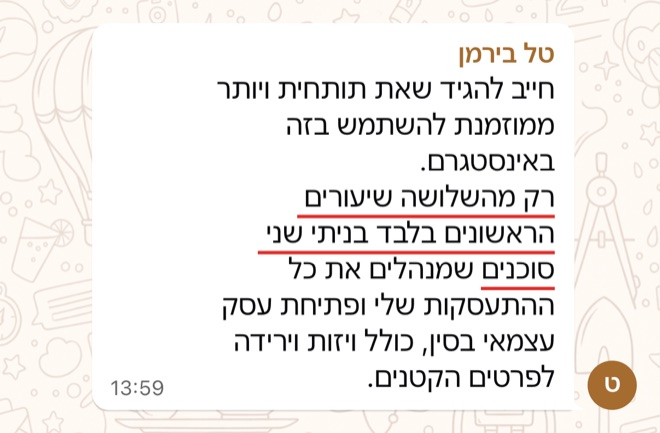
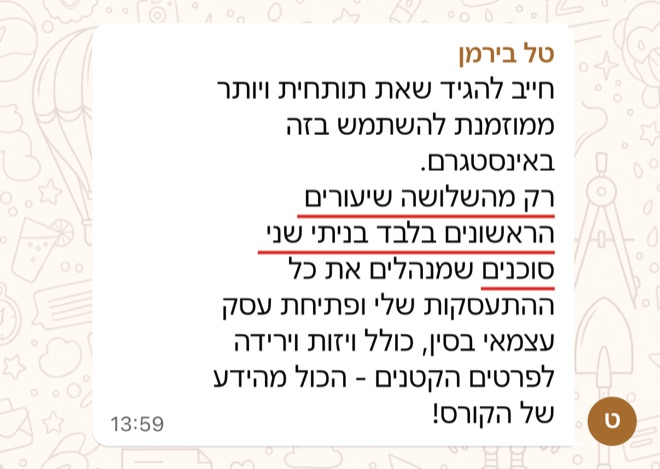
דף המפתח: בלי הכפתור הצף של הפרטיות (קישור הגדרות עוגיות בתחתית), מרווח לוואטסאפ, ושתי הודעות בנוסח המלא

diff --git a/index.html b/index.html
@@ -2064,6 +2064,8 @@ html:not(.obj-tabs-on) .obj-lead{display:none}
 .key-footer__links{display:flex;flex-wrap:wrap;justify-content:center;gap:8px 20px}
 .key-footer__links a{color:rgba(255,255,255,.85);text-decoration:underline;text-underline-offset:3px}
 .key-footer__links a:hover{color:#fff}
+/* 17-10-2026: בטלפון כפתור הוואטסאפ הצף (.wa-float, משמאל למטה) כיסה את הקישורים האחרונים בתחתית. מרווח בתחתית מפנה להם מקום. */
+@media (max-width:819px){.key-footer{padding-bottom:150px}}
 /* הערה 66: בטלפון ובטאבלט המשפט "זה משרד ה-AI שמריץ את אימפרוב..." יושב מתחת לתמונת המשרד ולא מתחת לכפתור.
    רק סדר תצוגה - המשפט נשאר ילד של .art, ולכן קופסת .office והתוויות שבה לא זזות */
 @media (max-width:899px){.hero .art{display:flex;flex-direction:column}.hero .art .trustnote{order:2;margin:12px 0 0}.hero .art .office{margin-top:22px}}
@@ -2492,7 +2494,7 @@ html:not(.is-personal) [data-personal-only]{display:none !important}
           <li><b>צופים מתי שנוח,</b> עוצרים באמצע, חוזרים כמה פעמים שצריך</li>
           <li><b>ההקלטות והחומרים נשארים אצלכם</b> - גם אחרי שסיימתם</li>
         </ul>
-        <div class="proof-strip"><p class="proof-strip__label">ככה תלמידים כותבים לנו בוואטסאפ</p><div class="tm-qm"><div class="tm-qm__row"><div class="tm-qm__track"><button type="button" class="tm-qm__shot" style="--ar:2.609" data-full="assets/wa-trn-0353.jpg" aria-label="הגדלת ההודעה של בת חן לוי"><img src="assets/wa-trn-0353.jpg" alt="הודעה של בת חן לוי: אין לי מושג איך הצלחת לקחת עולם כל כך מורכב ולהנגיש אותו לאנשים שלא כותבים קוד רק מבינים לוגיקה" loading="lazy"></button><button type="button" class="tm-qm__shot" style="--ar:2.609" data-full="assets/wa-trn-0385.jpg" aria-label="הגדלת ההודעה של ענת מנור"><img src="assets/wa-trn-0385.jpg" alt="הודעה של ענת מנור: הקורס מאוד עזר לי להבין יותר - עכשיו יש לי סדר, ואני יודעת איך לשאול את קלוד נכון ולהבין כמה הדאטה חשוב" loading="lazy"></button><button type="button" class="tm-qm__shot" style="--ar:1.307" data-full="assets/wa-trn-0658.jpg" aria-label="הגדלת ההודעה של דבורי חשין"><img src="assets/wa-trn-0658.jpg" alt="הודעה של דבורי חשין: היו לי פרוייקטים לא מסודרים, וברגע שהתחלנו את הקורס הייתי עסוקה בפיצוח השיטה.  ואז הרכבתי מחדש את הפרוייקטים וקרה הקסם.   לאור זאת יכולתי לבנות משרד שלם באותה שיטת עבודה מדוייקת וגאונית - הדפוסים, הארכיטקטורה, שיטת בניית סוכן, מבנה התיקיות.." loading="lazy"></button><button type="button" class="tm-qm__shot" style="--ar:2.609" data-full="assets/wa-trn-0659.jpg" aria-label="הגדלת ההודעה של דבורי חשין"><img src="assets/wa-trn-0659.jpg" alt="הודעה של דבורי חשין: תצמדו לשיטה של אימפרוב - גבולות הסוכנים, מיון שותף, ותהליך לחדד את הסוכנים - זה פשוט מטורף!!!" loading="lazy"></button><button type="button" class="tm-qm__shot" style="--ar:2.284" data-full="assets/wa-trn-0327.jpg" aria-label="הגדלת ההודעה של בת חן לוי"><img src="assets/wa-trn-0327.jpg" alt="הודעה של בת חן לוי: ההכנה מובנית מעולה. זה מאוד ברור. פדגוגית זה מורכב לבנות הכנה כזו, כי את ממש צריכה להתחקות אחרי התלמיד... וכל אחד מרקע אחר..." loading="lazy"></button><button type="button" class="tm-qm__shot" style="--ar:2.031" data-full="assets/wa-trn-0024.jpg" aria-label="הגדלת ההודעה של מורן טאובר"><img src="assets/wa-trn-0024.jpg" alt="הודעה של מורן טאובר: בחיים לא חשבתי שאגיד את זה.. אבל אני סוף סוף אוהבת לעשות שיעורי בית! אני מבטלת דברים רק בשביל לשבת על זה כי זה כיף.. עולם חדש נפתח ללא ספק!" loading="lazy"></button><button type="button" class="tm-qm__shot" style="--ar:1.524" data-full="assets/wa-trn-0565.jpg" aria-label="הגדלת ההודעה של טל בירמן"><img src="assets/wa-trn-0565.jpg" alt="הודעה של טל בירמן: חייב להגיד שאת תותחית ויותר ממוזמנת להשתמש בזה באינסטגרם. רק מהשלושה שיעורים הראשונים בלבד בניתי שני סוכנים שמנהלים את כל ההתעסקות שלי ופתיחת עסק עצמאי בסין, כולל ויזות וירידה לפרטים הקטנים." loading="lazy"></button><button type="button" class="tm-qm__shot" style="--ar:3.056" data-full="assets/wa-trn-0354.jpg" aria-label="הגדלת ההודעה של בת חן לוי"><img src="assets/wa-trn-0354.jpg" alt="הודעה של בת חן לוי: אם עוברים על כל החומר שלך אחד אחרי השני. לא ממש צריך מישהו פרונטלי רק לשאלות.." loading="lazy"></button><button type="button" class="tm-qm__shot" style="--ar:1.524" data-full="assets/wa-trn-0743.jpg" aria-label="הגדלת ההודעה של Daniel m"><img src="assets/wa-trn-0743.jpg" alt="הודעה של Daniel m: קלוד תיעד מה רלוונטי, קרא את הקוד של שלהבת מ-GitHub ובנה תוכנית פעולה. זה פשוט מטורף. לפני 4 שבועות שום דבר מזה לא היה הגיוני. הכל היה בדיוני ועכשיו הכל מסתדר, הכל מתחבר." loading="lazy"></button></div></div></div></div>
+        <div class="proof-strip"><p class="proof-strip__label">ככה תלמידים כותבים לנו בוואטסאפ</p><div class="tm-qm"><div class="tm-qm__row"><div class="tm-qm__track"><button type="button" class="tm-qm__shot" style="--ar:2.609" data-full="assets/wa-trn-0353.jpg" aria-label="הגדלת ההודעה של בת חן לוי"><img src="assets/wa-trn-0353.jpg" alt="הודעה של בת חן לוי: אין לי מושג איך הצלחת לקחת עולם כל כך מורכב ולהנגיש אותו לאנשים שלא כותבים קוד רק מבינים לוגיקה" loading="lazy"></button><button type="button" class="tm-qm__shot" style="--ar:2.609" data-full="assets/wa-trn-0385.jpg" aria-label="הגדלת ההודעה של ענת מנור"><img src="assets/wa-trn-0385.jpg" alt="הודעה של ענת מנור: הקורס מאוד עזר לי להבין יותר - עכשיו יש לי סדר, ואני יודעת איך לשאול את קלוד נכון ולהבין כמה הדאטה חשוב" loading="lazy"></button><button type="button" class="tm-qm__shot" style="--ar:1.307" data-full="assets/wa-trn-0658.jpg" aria-label="הגדלת ההודעה של דבורי חשין"><img src="assets/wa-trn-0658.jpg" alt="הודעה של דבורי חשין: היו לי פרוייקטים לא מסודרים, וברגע שהתחלנו את הקורס הייתי עסוקה בפיצוח השיטה.  ואז הרכבתי מחדש את הפרוייקטים וקרה הקסם.   לאור זאת יכולתי לבנות משרד שלם באותה שיטת עבודה מדוייקת וגאונית - הדפוסים, הארכיטקטורה, שיטת בניית סוכן, מבנה התיקיות.." loading="lazy"></button><button type="button" class="tm-qm__shot" style="--ar:2.609" data-full="assets/wa-trn-0659.jpg" aria-label="הגדלת ההודעה של דבורי חשין"><img src="assets/wa-trn-0659.jpg" alt="הודעה של דבורי חשין: תצמדו לשיטה של אימפרוב - גבולות הסוכנים, מיון שותף, ותהליך לחדד את הסוכנים - זה פשוט מטורף!!!" loading="lazy"></button><button type="button" class="tm-qm__shot" style="--ar:2.284" data-full="assets/wa-trn-0327.jpg" aria-label="הגדלת ההודעה של בת חן לוי"><img src="assets/wa-trn-0327.jpg" alt="הודעה של בת חן לוי: ההכנה מובנית מעולה. זה מאוד ברור. פדגוגית זה מורכב לבנות הכנה כזו, כי את ממש צריכה להתחקות אחרי התלמיד... וכל אחד מרקע אחר..." loading="lazy"></button><button type="button" class="tm-qm__shot" style="--ar:2.031" data-full="assets/wa-trn-0024.jpg" aria-label="הגדלת ההודעה של מורן טאובר"><img src="assets/wa-trn-0024.jpg" alt="הודעה של מורן טאובר: בחיים לא חשבתי שאגיד את זה.. אבל אני סוף סוף אוהבת לעשות שיעורי בית! אני מבטלת דברים רק בשביל לשבת על זה כי זה כיף.. עולם חדש נפתח ללא ספק!" loading="lazy"></button><button type="button" class="tm-qm__shot" style="--ar:1.407" data-full="assets/wa-trn-0565.jpg" aria-label="הגדלת ההודעה של טל בירמן"><img src="assets/wa-trn-0565.jpg" alt="הודעה של טל בירמן: חייב להגיד שאת תותחית ויותר ממוזמנת להשתמש בזה באינסטגרם. רק מהשלושה שיעורים הראשונים בלבד בניתי שני סוכנים שמנהלים את כל ההתעסקות שלי ופתיחת עסק עצמאי בסין, כולל ויזות וירידה לפרטים הקטנים - הכול מהידע של הקורס!" loading="lazy"></button><button type="button" class="tm-qm__shot" style="--ar:2.284" data-full="assets/wa-trn-0354.jpg" aria-label="הגדלת ההודעה של בת חן לוי"><img src="assets/wa-trn-0354.jpg" alt="הודעה של בת חן לוי: אם עוברים על כל החומר שלך אחד אחרי השני. לא ממש צריך מישהו פרונטלי רק לשאלות.. את לגמרי יכולה למכור קורס דיגיטלי. זה מגובש לחלוטין." loading="lazy"></button><button type="button" class="tm-qm__shot" style="--ar:1.524" data-full="assets/wa-trn-0743.jpg" aria-label="הגדלת ההודעה של Daniel m"><img src="assets/wa-trn-0743.jpg" alt="הודעה של Daniel m: קלוד תיעד מה רלוונטי, קרא את הקוד של שלהבת מ-GitHub ובנה תוכנית פעולה. זה פשוט מטורף. לפני 4 שבועות שום דבר מזה לא היה הגיוני. הכל היה בדיוני ועכשיו הכל מסתדר, הכל מתחבר." loading="lazy"></button></div></div></div></div>
       </div>
 
       <div class="opens-card">
@@ -3268,6 +3270,7 @@ html:not(.is-personal) [data-personal-only]{display:none !important}
     <div class="key-footer__links">
       <a href="mailto:connect@aimprove.co.il">צור קשר</a>
       <a href="https://aimprove.co.il/privacy-policy/">מדיניות פרטיות</a>
+      <a href="#" onclick="if(window.aimConsentOpen){window.aimConsentOpen();}return false;">הגדרות עוגיות</a>
       <a href="https://aimprove.co.il/terms-of-use/">תקנון</a>
       <a href="https://aimprove.co.il/accessibility-statement/">הצהרת נגישות</a>
     </div>
@@ -5365,7 +5368,8 @@ window.interdeal = {
   });
 })();
 </script>
-<script src="https://r.aimprove.co.il/consent-banner.js" data-page="maftecha"></script>
+<!-- 17-10-2026 (הערה 85): בלי הכפתור הצף "⚙ פרטיות". שינוי הבחירה - בקישור "הגדרות עוגיות" בתחתית הדף. -->
+<script src="https://r.aimprove.co.il/consent-banner.js" data-page="maftecha" data-reopener="none"></script>
 <script>
 /* פרקי סרטון ההסבר: לחיצה מקפיצה את הנגן לתחילת הנושא ומנגנת. משתמש בממשק ה-postMessage
    של Vimeo, ולכן לא צריך לטעון את player.js. אם הדפדפן חוסם ניגון עם קול, הנגן נשאר
